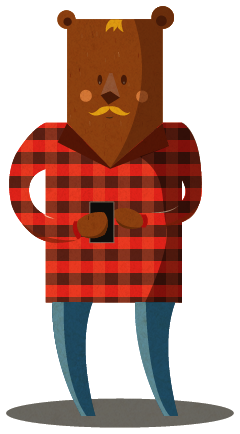
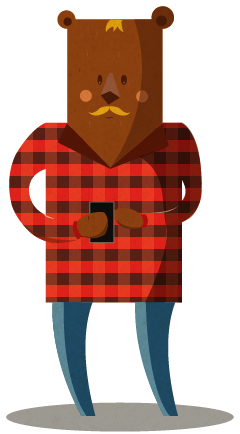
Last fixes

diff --git a/clients/nebber/index.html b/clients/nebber/index.html
@@ -1,1 +1,1 @@
-<!DOCTYPE html><html><head><title>Nebber</title><meta content="text/html; charset=utf-8" http-equiv="Content-Type" /><meta content="template language" name="keywords" /><meta content="width=device-width, initial-scale=1" name="viewport" /><link href="http://fonts.googleapis.com/css?family=Open+Sans|VT323|Boogaloo" rel="stylesheet" type="text/css" /><link href="stylesheets/screen.css" rel="stylesheet" /></head><body><div id="fb-root"></div><script src="javascripts/facebook.js"></script><div class="m-list--main-nav-container responsive" data-20500-start="bottom: 0; opacity: 1" data-21500-start="bottom: -100%; opacity: 0" data-500-start="bottom: 0; opacity: 1" data-start="bottom: -100%; opacity: 0"><ul class="m-list--main-nav responsive"><li><a data-start="background: rgba(227, 119, 46, 1)" href="#m-box--scene-1">1 </a></li><li><a data-2000-start="background: rgba(227, 119, 46, 1)" data-start="background: rgba(110, 100, 92, 1);" href="#m-box--scene-2">2 </a></li><li><a data-2000-start="background: rgba(110, 100, 92, 1);" data-4000-start="background: rgba(227, 119, 46, 1)" data-start="background: rgba(110, 100, 92, 1);" href="#m-box--scene-3">3 </a></li><li><a data-10000-start="background: rgba(227, 119, 46, 1)" data-4000-start="background: rgba(110, 100, 92, 1);" data-start="background: rgba(110, 100, 92, 1);" href="#m-box--scene-4">4 </a></li><li><a data-10000-start="background: rgba(110, 100, 92, 1);" data-11500-start="background: rgba(227, 119, 46, 1)" data-start="background: rgba(110, 100, 92, 1);" href="#m-box--scene-5">5 </a></li><li><a data-11500-start="background: rgba(110, 100, 92, 1);" data-13000-start="background: rgba(227, 119, 46, 1)" data-start="background: rgba(110, 100, 92, 1);" href="#m-box--scene-6">6 </a></li><li><a data-13000-start="background: rgba(110, 100, 92, 1);" data-15500-start="background: rgba(227, 119, 46, 1)" data-start="background: rgba(110, 100, 92, 1);" href="#m-box--scene-7">7 </a></li><li><a data-16500-start="background: rgba(110, 100, 92, 1);" data-17500-start="background: rgba(227, 119, 46, 1)" data-start="background: rgba(110, 100, 92, 1);" href="#m-box--scene-8">8 </a></li><li><a data-18500-start="background: rgba(110, 100, 92, 1);" data-19000-start="background: rgba(227, 119, 46, 1)" data-start="background: rgba(110, 100, 92, 1);" href="#m-box--scene-9">9 </a></li><li><a data-19500-start="background: rgba(110, 100, 92, 1);" data-20500-start="background: rgba(227, 119, 46, 1)" data-start="background: rgba(110, 100, 92, 1);" href="#m-box--scene-11">10 </a></li></ul><a class="connect-with-facebook m-link--scrollTo" href="#m-box--scene-11">Live Now ! </a></div><div class="m-box--elements responsive " data-150-start="opacity: 0" data-201-start="opacity: 0; top: -500px" data-start="top: 450px; opacity: 1" id="m-box--scroll"></div><div class="responsive" id="m-box--backgrounds"><div data-1000-start="background-position: center -1000px" data-3500-start="background-position: center -1000px; opacity: 1" data-4000-start="background-position: center -1000px; opacity: 0" data-start="background-position: center 0px" id="m-box--empty-bg1"></div><div data-11000-start="background-position: -3500px 0px; opacity: 0" data-12500-start="background-position: -3500px 0px; opacity: 1" data-14000-start="background-position: 0px 0px; opacity: 1" data-14500-start="background-position: 0px 0px; opacity: 0" data-3500-start="opacity: 0; background-position: 0px 0px" data-3900-start="opacity: 1;  background-position: 0px 0px" data-8000-start="background-position: -5100px 0px" data-8001-start="background-position: -5100px 0px; opacity: 0" data-start="opacity: 0" id="m-box--empty-bg2"></div><div data-14500-start="background-position: 50% 3000px" data-15500-start="background-position: 50% 0px" data-16500-start="background-position: 50% 0px" data-17500-start="background-position: 50% 3000px" data-start="background-position: 50% 3000px" id="m-box--empty-bg3"></div><div data-16000-start="background-position: 50% 3000px" data-17500-start="background-position: 50% 0px" data-18000-start="background-position: 50% 0px" data-19000-start="background-position: 50% 3000px" data-start="background-position: 50% 3000px" id="m-box--empty-bg4"></div><div data-18000-start="background-position: 50% 3000px" data-19000-start="background-position: 50% 20px" data-19500-start="background-position: 50% 20px" data-20500-start="background-position: 50% 3000px" data-start="background-position: 50% 3000px" id="m-box--empty-bg5"></div><div data-19000-start="background-position: 50% 3000px" data-20500-start="background-position: 50% 0px" data-start="background-position: 50% 3000px" id="m-box--empty-bg6"></div></div><h1 class="m-box--logo m-box--elements animated hinge bounceInDown responsive" data-500-start="top: -300px" data-start="top: -10px">Nebber </h1><div class="m-element--bear m-box--elements responsive" data-2000-start="right: 35%" data-3500-start="right: 35%; opacity: 1" data-4000-start="right: 35%; opacity: 0" data-4001-start="right: -100%; opacity: 0" data-start="right: -100%">Hi there ! I'm M.Bear </div><div class="m-box--elements m-box--close-view-phone responsive" data-2000-start="top: 200%" data-3500-start="top: -200%" data-start="top: 200%">Do you want to click ? </div><div class="m-box--elements m-element--small-plane responsive" data-2499-start="top: 430px; opacity: 0; right: 45%" data-2500-start="top: 430px; opacity: 1; right: 45%" data-2700-start="top: 430px; opacity: 1; right: 45%" data-3500-start="top: 430px; opacity: 1; right: -20%" data-start="top: -100px; opacity:0; right: 45%"></div><div class="m-box--elements m-element--plane-large responsive" data-3900-start="left: -20%; opacity: 0" data-4300-start="left: 40%; opacity: 1" data-7000-start="left: 40%; opacity: 1" data-7400-start="left: 40%; opacity: 0" data-start="left: -20%; opacity: 0"></div><div class="m-box--elements m-element--plane-large-msg responsive" data-11500-start="left: 100%; opacity: 0" data-13500-start="left: 50%; opacity: 1" data-14500-start=" left: -100%; opacity: 1" data-start="left: -100%; opacity: 0"></div><div class="m-box--elements m-element--sun responsive" data-10499-start="left: -35%; opacity: 0" data-12000-start="left: 40%; opacity: 0" data-12800-start="left: 50%; opacity: 1" data-14000-start="left: 100%; " data-3500-start="left: 15%; opacity: 0" data-4100-start="left: 15%; opacity: 1" data-8000-start="left: -35%; opacity: 1" data-start="left: 15%; opacity: 0"><div class="m-sun"></div><div class="m-sun--crown rotation"></div></div><div class="m-box--elements m-element--cloud1 responsive" data-11500-start="left: -10%; opacity: 0" data-13000-start="left: 30%; opacity: 1" data-14500-start=" left: 140%; opacity: 1" data-3499-start="top: 15%; opacity: 0; left: 50%" data-4100-start="top: 15%; opacity: 1; left: 50%" data-7000-start="left: 25%; opacity: 1" data-8000-start="left: -10%; opacity: 0" data-start="top: -100%; opacity: 0"></div><div class="m-box--elements m-element--cloud2 responsive" data-11500-start="left: -20%; opacity: 0" data-13400-start="left: 25%; opacity: 1" data-14500-start=" left: 200%; opacity: 1" data-3499-start="top: 35%; opacity: 0; left: 70%" data-4200-start="top: 35%; opacity: 1; left: 50%" data-7000-start="left: 1%; opacity: 1" data-7100-start="left: -20%; opacity: 0" data-start="top: -100%; opacity: 0"></div><div class="m-box--elements m-element--cloud3 responsive" data-11500-start="left: -50%; opacity: 0" data-12800-start="left: 5%; opacity: 1" data-14500-start=" left: 105%; opacity: 1" data-3499-start="top: 65%; opacity: 0; left: 20%" data-4150-start="top: 65%; opacity: 1; left: 20%" data-7000-start="left: 10%; opacity: 1" data-7500-start="left: -50%; opacity: 0" data-start="top: -100%; opacity: 0"></div><div class="m-box--elements m-element--cloud4 responsive" data-11500-start="left: -30%; opacity: 0" data-13100-start="left: 10%; opacity: 1" data-14500-start=" left: 160%; opacity: 1" data-3499-start="top: 50%; opacity: 0; left: 90%" data-4170-start="top: 50%; opacity: 1; left: 130%" data-7000-start="left: 15%; opacity: 1" data-7800-start="left: -30%; opacity: 0" data-start="top: -100%; opacity: 0"></div><div class="m-box--elements m-element--cloud5 responsive" data-11500-start="left: -30%; opacity: 0" data-13300-start="left: 40%; opacity: 1" data-14500-start=" left: 180%; opacity: 1" data-3499-start="bottom: 50%; opacity: 0; left: 90%" data-4170-start="bottom: 0; opacity: 1; left: 130%" data-7000-start="left: 15%; opacity: 1" data-7800-start="left: -30%; opacity: 0" data-start="bottom: -100%; opacity: 0"></div><div class="m-box--elements m-element--cloud6 responsive" data-3499-start="bottom: 10%; opacity: 0; left: 70%" data-4200-start="bottom: 10%; opacity: 1; left: 50%" data-7000-start="left: 1%; opacity: 1" data-7100-start="left: -20%; opacity: 0" data-start="bottom: -100%; opacity: 0"></div><div class="m-box--elements m-element--panelA responsive" data-10000-start="top: 0px; opacity: 1" data-11000-start="top: 0px; opacity: 0" data-7999-start="top: -800px; opacity: 0" data-8400-start="top: 0px; opacity: 1" data-start="top: -800px; opacity: 0"><div class="m-element--balloon"></div><div class="m-element--fox" data-10000-start="opacity: 1" data-11000-start="opacity: 0" data-8300-start="bottom: 0; left: -100%; opacity: 0" data-8600-start="bottom: 0; left: 23%; opacity: 1" data-start="bottom: 0; left: -100%; opacity: 0"></div><div class="m-bubble--fox" data-8400-start="opacity: 0" data-8700-start="opacity: 1" data-start="opacity: 0"><p>Let's have fun in the park !</p></div></div><div class="m-box--elements m-element--panelB responsive" data-10000-start="top: 0px; opacity: 1" data-11000-start="top: 0px; opacity: 0" data-8200-start="top: -800px; opacity: 0" data-8700-start="top: 0px; opacity: 1" data-start="top: -800px; opacity: 0"><div class="m-element--wave" data-10000-start="opacity: 1" data-11000-start="opacity: 0" data-8600-start="bottom: -200px; opacity: 0" data-8800-start="bottom: -10px; opacity: 1" data-start="bottom: -200px; opacity: 0"></div><div class="m-element--boat" data-10000-start="opacity: 1" data-11000-start="opacity: 0" data-8700-start="bottom: 120px; right: -100%; opacity: 0" data-8900-start="bottom: 120px; right: 50%; opacity: 1" data-start="bottom: 120px; right: -100%; opacity: 0"></div><div class="m-bubble--lion" data-8800-start="opacity: 0" data-9000-start="opacity: 1" data-start="opacity: 0"><p>It’s a beautiful day for a sea lion!</p></div><div class="m-element--sea-donkey" data-10000-start="opacity: 1" data-11000-start="opacity: 0" data-8600-start="bottom: -200px; opacity: 0" data-8800-start="bottom: -10px; opacity: 1" data-start="bottom: -200px; opacity: 0"></div></div><div class="m-box--elements m-element--panelC responsive" data-10000-start="top: 0px; opacity: 1" data-11000-start="top: 0px; opacity: 0" data-8400-start="top: -800px; opacity: 0" data-8900-start="top: 0px; opacity: 1" data-start="top: -800px; opacity: 0"><div class="m-element--moose" data-10000-start="opacity: 1" data-11000-start="opacity: 0" data-8700-start="bottom: 0; right: -100%; opacity: 0" data-9100-start="bottom: 0; right: 23%; opacity: 1" data-start="bottom: 0; right: -100%; opacity: 0"></div><div class="m-bubble--moose" data-8800-start="opacity: 0" data-9100-start="opacity: 1" data-start="opacity: 0"><p>Party tonight! <br />Put on your red shoes. . . </p></div></div><div class="m-box--elements m-element--panelA-blurred responsive" data-10000-start="top: 0px; opacity: 0" data-11000-start="top: 0px; opacity: 1" data-11900-start="top: 0px;" data-12900-start="top: -1100px;" data-start="top: -800px; opacity: 0"><div class="m-element--fox blurred" data-10000-start="bottom: 0px; left: 23%; opacity: 0" data-11000-start="bottom: 0px; opacity: 1" data-start="bottom: 0; left: -100%; opacity: 0"></div></div><div class="m-box--elements m-element--panelB-blurred responsive" data-10000-start="top: 0px; opacity: 0" data-11000-start="top: 0px; opacity: 1" data-11700-start="top: 0px;" data-12700-start="top: -800px;" data-start="top: -800px; opacity: 0"><div class="m-element--wave blurred" data-10000-start="opacity: 0" data-11000-start="opacity: 1" data-8800-start="bottom: -10px; opacity: 0" data-start="bottom: -200px; opacity: 0"></div><div class="m-element--boat blurred" data-10000-start="opacity: 0" data-11000-start="opacity: 1" data-8900-start="bottom: 120px; right: 50%; opacity: 0" data-start="bottom: 120px; right: -100%; opacity: 0"></div></div><div class="m-box--elements m-element--panelC-blurred responsive" data-10000-start="top: 0px; opacity: 0" data-11000-start="top: 0px; opacity: 1" data-11500-start="top: 0px;" data-12500-start="top: -900px;" data-start="top: -800px; opacity: 0"><div class="m-element--moose blurred" data-10000-start="opacity: 0" data-11000-start="opacity: 1" data-9100-start="bottom: 0; right: 23%; opacity: 0" data-start="bottom: 0; right: -100%; opacity: 0"></div></div><div class="m-box--elements m-element--bear-large responsive" data-10000-start="bottom: -100%" data-11000-start="bottom: 0%" data-11500-start="bottom: 0%" data-12500-start="bottom: -100%" data-start="bottom: -100%"></div><div class="m-box--elements m-box--elements-container responsive" data-14500-start="bottom: 0" data-start="bottom:-100%"><div class="m-box--elements m-element--bear-scene" data-14500-start="left: -100%" data-15100-start="left: 40%" data-20200-start="top: 350px; left: 40%" data-21000-start="top: 280px; left: 45%" data-start="left: -100%"></div><div class="m-box--elements m-element--fox-scene" data-14800-start="left: -50%; opacity: 0" data-15000-start="left: 0%; opacity: 0" data-15500-start="left: 25%; opacity: 1" data-16500-start="left: 25%; opacity: 1" data-17000-start="left: 0%; opacity: 0" data-17500-start="left: -100%; opacity: 0" data-20750-start="left: -100%; opacity: 0; top: 540px; z-index: 12" data-21500-start="left:35%; opacity: 1; top: 540px; z-index: 12" data-start="left: -50%"></div><div class="m-box--elements m-element--racoon-scene" data-14900-start="right: -100%; opacity: 0" data-15200-start="right: 0%; opacity: 0" data-15500-start="right: 10%; opacity: 1" data-16500-start="right: 10%; opacity: 1" data-17000-start="right: 0%; opacity: 0" data-17500-start="right: -100%" data-20750-start="right: -100%; opacity: 0; top: 540px; z-index: 12" data-21500-start="right:30%; opacity: 1; top: 540px; z-index: 12" data-start="right: -100%"></div><div class="m-box--elements m-element--flamingo-scene" data-15000-start="right: -100%" data-15250-start="right: 0%; opacity: 0" data-15500-start="right: 25%; opacity: 1" data-16500-start="right: 25%" data-17000-start="right: 0%; opacity: 0" data-17500-start="right: -100%" data-start="right: -100%"></div><div class="m-box--elements m-element--elephant-scene" data-16500-start="right: -100%" data-17000-start="right: 0%; opacity: 0" data-17500-start="right: 10%; opacity: 1" data-18000-start="right: 10%" data-18500-start="right: 0%; opacity: 0" data-19000-start="right: -100%" data-20750-start="right: -100%; opacity: 0; top: 280px" data-21500-start="right:10%; opacity: 1; top: 280px" data-start="right: -100%"></div><div class="m-box--elements m-element--panda-scene" data-16500-start="left: -100%" data-17000-start="left: 0%; opacity: 0" data-17500-start="left: 15%; opacity: 1" data-18000-start="left: 15%" data-18500-start="left: 0%; opacity: 0" data-19000-start="left: -100%" data-20750-start="left: -100%; opacity: 0; top: 300px" data-21500-start="left:5%; opacity: 1; top: 300px" data-start="left: -100%"></div><div class="m-box--elements m-element--moose-scene" data-18000-start="left: -100%" data-18500-start="left: 0%; opacity: 0" data-19000-start="left: 14%; z-index: 12; opacity:1" data-20500-start="left: 10%; z-index: 12" data-start="left: -100%"></div><div class="m-box--elements m-element--lion-scene" data-18000-start="right: -100%" data-18500-start="right: 0%; opacity: 0" data-19000-start="right: 20%; z-index: 12; opacity: 1" data-20500-start="right: 10%; z-index: 12" data-start="right: -100%"></div><div class="m-box--elements m-element--table-scene" data-20000-start="top: -500px" data-20500-start="top: 370px" data-start="top: -500px"></div><div class="m-box--elements m-element--donkey-scene" data-20000-start="left: -100%" data-20750-start="left: 0%; opacity: 0" data-21500-start="left:28%; opacity: 1" data-start="bottom: -100%"></div></div><div class="m-box--elements txt-box--scene1 responsive" data-1200-start="opacity: 1" data-2800-start="opacity: 1" data-3500-start="opacity: 0" data-800-start="top: 15%; opacity: 0" data-start="top: -100%; opacity: 0"><p>Feeling like doing something now. <br />Maybe like seeing someone. <br />Like something somewhere <br />with someone somehow. </p></div><div class="m-box--elements txt-box--scene1 responsive" data-1200-start="opacity: 0" data-2500-start="opacity: 0;" data-2800-start="opacity: 1" data-3500-start="opacity: 0" data-800-start="top: 63%; right: -2%; opacity: 0" data-start="top: -100%; opacity: 0"><p>What resonates with you ? </p></div><div class="m-box--elements txt-box--scene4 responsive" data-3799-start="top: -100%; opacity: 0" data-3800-start="top: 15%; opacity: 0" data-4100-start="top: 15%; opacity: 1" data-6200-start="top: 15%; opacity: 1" data-7000-start="top: 15%; opacity: 0" data-7001-start="top: -100%; opacity: 0" data-start="top: -100%; opacity: 0"><p>One click to life. <br />Connecting your friends <br />with what you feel like doing. <br />Cool events, restaurants, whatever. <br />Bringing it all together. </p></div><div class="m-box--elements txt-box--scene4 responsive" data-3799-start="top: -100%; opacity: 0" data-5000-start="top: 88%; opacity: 0" data-6200-start="top: 88%; opacity: 1" data-7000-start="top: 88%; opacity: 0" data-7001-start="top: -100%; opacity: 0" data-start="top: -100%; right: 2%; opacity: 0" style="color: #ff9124"><p>Being invited is always nice too... </p></div><div class="m-box--elements txt-box--scene2 responsive" data-10899-start="top: -100%; opacity: 0" data-10900-start="top: 25%; opacity: 0" data-11000-start="opacity: 1" data-11500-start="opacity: 1" data-12001-start="opacity: 0; top: -100%" data-12500-start="opacity: 0" data-start="top: -100%; opacity: 0"><p>Let’s do it! See you soon! </p></div><div class="m-box--elements txt-box--scene3 responsive" data-15000-start="top: -100%; opacity: 0" data-15500-start="top: 10%; opacity: 1" data-16500-start="top: 10%; opacity: 1" data-17500-start="top: -100%; opacity: 0" data-start="top: -100%; opacity: 0"><p>Meeting each other’s friends is fun. . . </p></div><div class="m-box--elements txt-box--scene3 responsive" data-16000-start="top: -100%; opacity: 0" data-17500-start="top: 10%; opacity: 1" data-18000-start="top: 10%; opacity: 1" data-19000-start="top: -100%; opacity: 0" data-start="top: -100%; opacity: 0"><p>Everyday is fresh and full of funny opportunities together. </p></div><div class="m-box--elements txt-box--scene3 responsive " data-17500-start="top: -100%; opacity: 0" data-18500-start="top: 10%; opacity: 1" data-19500-start="top: 10%; opacity: 1" data-20500-start="top: -100%; opacity: 0" data-start="top: -100%; opacity: 0"><p>And nightlife is far more night lively. </p></div><div class="m-box--elements txt-box--scene3 responsive" data-21000-start="top: -100%; opacity: 0; color: #444" data-21500-start="top: 10%; opacity: 1; color: #444" data-start="top: -100%; opacity: 0; color: #444"><p>Have friends? <br />Nebber something good. </p></div><a class="m-box--elements connect-with-facebook responsive" data-20900-start="top: 25%; opacity: 0" data-21500-start="top: 25%; opacity: 1" data-start="top: -100%; opacity: 0" href="#">Live Now ! </a><div class="m-box--share m-box--elements" data-20900-start="top: 35%; opacity: 0" data-21500-start="top: 35%; opacity: 1" data-start="top: -100%; opacity: 0"><a class="twitter-share-button" data-url="http://www.nebber.com" href="https://twitter.com/share"></a><script type="text/javascript">!function(d,s,id){var js,fjs=d.getElementsByTagName(s)[0],p=/^http:/.test(d.location)?'http':'https';if(!d.getElementById(id)){js=d.createElement(s);js.id=id;js.src=p+'://platform.twitter.com/widgets.js';fjs.parentNode.insertBefore(js,fjs);}}(document, 'script', 'twitter-wjs');</script><a class="like" href="http://www.facebook.com/sharer/sharer.php?s=100&amp;p[url]=http://www.nebber.com&amp;p[title]=You%20too,%20live%20now%20!" target="_blank">Share </a></div><div class="responsive" id="m-box--scene-1"></div><div class="responsive" id="m-box--scene-2"></div><div class="responsive" id="m-box--scene-3"></div><div class="responsive" id="m-box--scene-4"></div><div class="responsive" id="m-box--scene-5"></div><div class="responsive" id="m-box--scene-6"></div><div class="responsive" id="m-box--scene-7"></div><div class="responsive" id="m-box--scene-8"></div><div class="responsive" id="m-box--scene-9"></div><div class="responsive" id="m-box--scene-10"></div><div class="responsive" id="m-box--scene-11"></div><div class="isResponsive"><img src="images/donkey-mobile.gif" /><p>Hi there !</p><p>To enjoy the Nebber website experience at its best, please switch on your desktop.</p><p>However, you can still connect directly: <a class="connect-with-facebook" href="/">Connect with Facebook </a></p></div></body><script src="http://ajax.googleapis.com/ajax/libs/jquery/1.10.2/jquery.min.js" type="text/javascript"></script><script src="javascripts/skrollr.js"></script><script src="javascripts/smoothscroll.js"></script><script src="javascripts/queryloader2.js"></script><script src="javascripts/call.js"></script></html>
+<!DOCTYPE html><html><head><title>Nebber</title><meta content="text/html; charset=utf-8" http-equiv="Content-Type" /><meta content="template language" name="keywords" /><meta content="width=device-width, initial-scale=1" name="viewport" /><link href="http://fonts.googleapis.com/css?family=Open+Sans|VT323|Boogaloo" rel="stylesheet" type="text/css" /><link href="stylesheets/screen.css" rel="stylesheet" /></head><body><div id="fb-root"></div><script src="javascripts/facebook.js"></script><div class="m-list--main-nav-container responsive" data-20500-start="bottom: 0; opacity: 1" data-21500-start="bottom: -100%; opacity: 0" data-500-start="bottom: 0; opacity: 1" data-start="bottom: -100%; opacity: 0"><ul class="m-list--main-nav responsive"><li><a data-start="background: rgba(227, 119, 46, 1)" href="#m-box--scene-1">1 </a></li><li><a data-2000-start="background: rgba(227, 119, 46, 1)" data-start="background: rgba(110, 100, 92, 1);" href="#m-box--scene-2">2 </a></li><li><a data-2000-start="background: rgba(110, 100, 92, 1);" data-4000-start="background: rgba(227, 119, 46, 1)" data-start="background: rgba(110, 100, 92, 1);" href="#m-box--scene-3">3 </a></li><li><a data-10000-start="background: rgba(227, 119, 46, 1)" data-4000-start="background: rgba(110, 100, 92, 1);" data-start="background: rgba(110, 100, 92, 1);" href="#m-box--scene-4">4 </a></li><li><a data-10000-start="background: rgba(110, 100, 92, 1);" data-11500-start="background: rgba(227, 119, 46, 1)" data-start="background: rgba(110, 100, 92, 1);" href="#m-box--scene-5">5 </a></li><li><a data-11500-start="background: rgba(110, 100, 92, 1);" data-13000-start="background: rgba(227, 119, 46, 1)" data-start="background: rgba(110, 100, 92, 1);" href="#m-box--scene-6">6 </a></li><li><a data-13000-start="background: rgba(110, 100, 92, 1);" data-15500-start="background: rgba(227, 119, 46, 1)" data-start="background: rgba(110, 100, 92, 1);" href="#m-box--scene-7">7 </a></li><li><a data-16500-start="background: rgba(110, 100, 92, 1);" data-17500-start="background: rgba(227, 119, 46, 1)" data-start="background: rgba(110, 100, 92, 1);" href="#m-box--scene-8">8 </a></li><li><a data-18500-start="background: rgba(110, 100, 92, 1);" data-19000-start="background: rgba(227, 119, 46, 1)" data-start="background: rgba(110, 100, 92, 1);" href="#m-box--scene-9">9 </a></li><li><a data-19500-start="background: rgba(110, 100, 92, 1);" data-20500-start="background: rgba(227, 119, 46, 1)" data-start="background: rgba(110, 100, 92, 1);" href="#m-box--scene-11">10 </a></li></ul><a class="connect-with-facebook m-link--scrollTo" href="#m-box--scene-11">Live Now ! </a></div><div class="m-box--elements responsive " data-150-start="opacity: 0" data-201-start="opacity: 0; top: -500px" data-start="top: 450px; opacity: 1" id="m-box--scroll"></div><div class="responsive" id="m-box--backgrounds"><div data-1000-start="background-position: center -1000px" data-3500-start="background-position: center -1000px; opacity: 1" data-4000-start="background-position: center -1000px; opacity: 0" data-start="background-position: center 0px" id="m-box--empty-bg1"></div><div data-11000-start="background-position: -3500px 0px; opacity: 0" data-12500-start="background-position: -3500px 0px; opacity: 1" data-14000-start="background-position: 0px 0px; opacity: 1" data-14500-start="background-position: 0px 0px; opacity: 0" data-3500-start="opacity: 0; background-position: 0px 0px" data-3900-start="opacity: 1;  background-position: 0px 0px" data-8000-start="background-position: -5100px 0px" data-8001-start="background-position: -5100px 0px; opacity: 0" data-start="opacity: 0" id="m-box--empty-bg2"></div><div data-14500-start="background-position: 50% 3000px" data-15500-start="background-position: 50% 0px" data-16500-start="background-position: 50% 0px" data-17500-start="background-position: 50% 3000px" data-start="background-position: 50% 3000px" id="m-box--empty-bg3"></div><div data-16000-start="background-position: 50% 3000px" data-17500-start="background-position: 50% 0px" data-18000-start="background-position: 50% 0px" data-19000-start="background-position: 50% 3000px" data-start="background-position: 50% 3000px" id="m-box--empty-bg4"></div><div data-18000-start="background-position: 50% 3000px" data-19000-start="background-position: 50% 20px" data-19500-start="background-position: 50% 20px" data-20500-start="background-position: 50% 3000px" data-start="background-position: 50% 3000px" id="m-box--empty-bg5"></div><div data-19000-start="background-position: 50% 3000px" data-20500-start="background-position: 50% 0px" data-start="background-position: 50% 3000px" id="m-box--empty-bg6"></div></div><h1 class="m-box--logo m-box--elements animated hinge bounceInDown responsive" data-500-start="top: -300px" data-start="top: -10px">Nebber </h1><div class="m-element--bear m-box--elements responsive" data-2000-start="right: 35%" data-3500-start="right: 35%; opacity: 1" data-4000-start="right: 35%; opacity: 0" data-4001-start="right: -100%; opacity: 0" data-start="right: -100%">Hi there ! I'm M.Bear </div><div class="m-box--elements m-box--close-view-phone responsive" data-2000-start="top: 200%" data-3500-start="top: -200%" data-start="top: 200%">Do you want to click ? </div><div class="m-box--elements m-element--small-plane responsive" data-2499-start="top: 430px; opacity: 0; right: 45%" data-2500-start="top: 430px; opacity: 1; right: 45%" data-2700-start="top: 430px; opacity: 1; right: 45%" data-3500-start="top: 430px; opacity: 1; right: -20%" data-start="top: -100px; opacity:0; right: 45%"></div><div class="m-box--elements m-element--plane-large responsive" data-3900-start="left: -20%; opacity: 0" data-4300-start="left: 40%; opacity: 1" data-7000-start="left: 40%; opacity: 1" data-7400-start="left: 40%; opacity: 0" data-start="left: -20%; opacity: 0"></div><div class="m-box--elements m-element--plane-large-msg responsive" data-11500-start="left: 100%; opacity: 0" data-13500-start="left: 50%; opacity: 1" data-14500-start=" left: -100%; opacity: 1" data-start="left: -100%; opacity: 0"></div><div class="m-box--elements m-element--sun responsive" data-10499-start="left: -35%; opacity: 0" data-12000-start="left: 40%; opacity: 0" data-12800-start="left: 50%; opacity: 1" data-14000-start="left: 100%; " data-3500-start="left: 15%; opacity: 0" data-4100-start="left: 15%; opacity: 1" data-8000-start="left: -35%; opacity: 1" data-start="left: 15%; opacity: 0"><div class="m-sun"></div><div class="m-sun--crown rotation"></div></div><div class="m-box--elements m-element--cloud1 responsive" data-11500-start="left: -10%; opacity: 0" data-13000-start="left: 30%; opacity: 1" data-14500-start=" left: 140%; opacity: 1" data-3499-start="top: 15%; opacity: 0; left: 50%" data-4100-start="top: 15%; opacity: 1; left: 50%" data-7000-start="left: 25%; opacity: 1" data-8000-start="left: -10%; opacity: 0" data-start="top: -100%; opacity: 0"></div><div class="m-box--elements m-element--cloud2 responsive" data-11500-start="left: -20%; opacity: 0" data-13400-start="left: 25%; opacity: 1" data-14500-start=" left: 200%; opacity: 1" data-3499-start="top: 35%; opacity: 0; left: 70%" data-4200-start="top: 35%; opacity: 1; left: 50%" data-7000-start="left: 1%; opacity: 1" data-7100-start="left: -20%; opacity: 0" data-start="top: -100%; opacity: 0"></div><div class="m-box--elements m-element--cloud3 responsive" data-11500-start="left: -50%; opacity: 0" data-12800-start="left: 5%; opacity: 1" data-14500-start=" left: 105%; opacity: 1" data-3499-start="top: 65%; opacity: 0; left: 20%" data-4150-start="top: 65%; opacity: 1; left: 20%" data-7000-start="left: 10%; opacity: 1" data-7500-start="left: -50%; opacity: 0" data-start="top: -100%; opacity: 0"></div><div class="m-box--elements m-element--cloud4 responsive" data-11500-start="left: -30%; opacity: 0" data-13100-start="left: 10%; opacity: 1" data-14500-start=" left: 160%; opacity: 1" data-3499-start="top: 50%; opacity: 0; left: 90%" data-4170-start="top: 50%; opacity: 1; left: 130%" data-7000-start="left: 15%; opacity: 1" data-7800-start="left: -30%; opacity: 0" data-start="top: -100%; opacity: 0"></div><div class="m-box--elements m-element--cloud5 responsive" data-11500-start="left: -30%; opacity: 0" data-13300-start="left: 40%; opacity: 1" data-14500-start=" left: 180%; opacity: 1" data-3499-start="bottom: 50%; opacity: 0; left: 90%" data-4170-start="bottom: 0; opacity: 1; left: 130%" data-7000-start="left: 15%; opacity: 1" data-7800-start="left: -30%; opacity: 0" data-start="bottom: -100%; opacity: 0"></div><div class="m-box--elements m-element--cloud6 responsive" data-3499-start="bottom: 10%; opacity: 0; left: 70%" data-4200-start="bottom: 10%; opacity: 1; left: 50%" data-7000-start="left: 1%; opacity: 1" data-7100-start="left: -20%; opacity: 0" data-start="bottom: -100%; opacity: 0"></div><div class="m-box--elements m-element--panelA responsive" data-10000-start="top: 0px; opacity: 1" data-11000-start="top: 0px; opacity: 0" data-7999-start="top: -800px; opacity: 0" data-8400-start="top: 0px; opacity: 1" data-start="top: -800px; opacity: 0"><div class="m-element--balloon"></div><div class="m-element--fox" data-10000-start="opacity: 1" data-11000-start="opacity: 0" data-8300-start="bottom: 0; left: -100%; opacity: 0" data-8600-start="bottom: 0; left: 23%; opacity: 1" data-start="bottom: 0; left: -100%; opacity: 0"></div><div class="m-bubble--fox" data-8400-start="opacity: 0" data-8700-start="opacity: 1" data-start="opacity: 0"><p>Let's have fun in the park !</p></div></div><div class="m-box--elements m-element--panelB responsive" data-10000-start="top: 0px; opacity: 1" data-11000-start="top: 0px; opacity: 0" data-8200-start="top: -800px; opacity: 0" data-8700-start="top: 0px; opacity: 1" data-start="top: -800px; opacity: 0"><div class="m-element--wave" data-10000-start="opacity: 1" data-11000-start="opacity: 0" data-8600-start="bottom: -200px; opacity: 0" data-8800-start="bottom: -10px; opacity: 1" data-start="bottom: -200px; opacity: 0"></div><div class="m-element--boat" data-10000-start="opacity: 1" data-11000-start="opacity: 0" data-8700-start="bottom: 120px; right: -100%; opacity: 0" data-8900-start="bottom: 120px; right: 50%; opacity: 1" data-start="bottom: 120px; right: -100%; opacity: 0"></div><div class="m-bubble--lion" data-8800-start="opacity: 0" data-9000-start="opacity: 1" data-start="opacity: 0"><p>It’s a beautiful day for a sea lion!</p></div><div class="m-element--sea-donkey" data-10000-start="opacity: 1" data-11000-start="opacity: 0" data-8600-start="bottom: -200px; opacity: 0" data-8800-start="bottom: -10px; opacity: 1" data-start="bottom: -200px; opacity: 0"></div></div><div class="m-box--elements m-element--panelC responsive" data-10000-start="top: 0px; opacity: 1" data-11000-start="top: 0px; opacity: 0" data-8400-start="top: -800px; opacity: 0" data-8900-start="top: 0px; opacity: 1" data-start="top: -800px; opacity: 0"><div class="m-element--moose" data-10000-start="opacity: 1" data-11000-start="opacity: 0" data-8700-start="bottom: 0; right: -100%; opacity: 0" data-9100-start="bottom: 0; right: 23%; opacity: 1" data-start="bottom: 0; right: -100%; opacity: 0"></div><div class="m-bubble--moose" data-8800-start="opacity: 0" data-9100-start="opacity: 1" data-start="opacity: 0"><p>Party tonight! <br />Put on your red shoes. . . </p></div></div><div class="m-box--elements m-element--panelA-blurred responsive" data-10000-start="top: 0px; opacity: 0" data-11000-start="top: 0px; opacity: 1" data-11900-start="top: 0px;" data-12900-start="top: -1100px;" data-start="top: -800px; opacity: 0"><div class="m-element--fox blurred" data-10000-start="bottom: 0px; left: 23%; opacity: 0" data-11000-start="bottom: 0px; opacity: 1" data-start="bottom: 0; left: -100%; opacity: 0"></div></div><div class="m-box--elements m-element--panelB-blurred responsive" data-10000-start="top: 0px; opacity: 0" data-11000-start="top: 0px; opacity: 1" data-11700-start="top: 0px;" data-12700-start="top: -800px;" data-start="top: -800px; opacity: 0"><div class="m-element--wave blurred" data-10000-start="opacity: 0" data-11000-start="opacity: 1" data-8800-start="bottom: -10px; opacity: 0" data-start="bottom: -200px; opacity: 0"></div><div class="m-element--boat blurred" data-10000-start="opacity: 0" data-11000-start="opacity: 1" data-8900-start="bottom: 120px; right: 50%; opacity: 0" data-start="bottom: 120px; right: -100%; opacity: 0"></div></div><div class="m-box--elements m-element--panelC-blurred responsive" data-10000-start="top: 0px; opacity: 0" data-11000-start="top: 0px; opacity: 1" data-11500-start="top: 0px;" data-12500-start="top: -900px;" data-start="top: -800px; opacity: 0"><div class="m-element--moose blurred" data-10000-start="opacity: 0" data-11000-start="opacity: 1" data-9100-start="bottom: 0; right: 23%; opacity: 0" data-start="bottom: 0; right: -100%; opacity: 0"></div></div><div class="m-box--elements m-element--bear-large responsive" data-10000-start="bottom: -100%" data-11000-start="bottom: 0%" data-11500-start="bottom: 0%" data-12500-start="bottom: -100%" data-start="bottom: -100%"></div><div class="m-box--elements m-box--elements-container responsive" data-14500-start="bottom: 0" data-start="bottom:-100%"><div class="m-box--elements m-element--bear-scene" data-14500-start="left: -100%" data-15100-start="left: 40%" data-20200-start="top: 350px; left: 40%" data-21000-start="top: 280px; left: 45%" data-start="left: -100%"></div><div class="m-box--elements m-element--fox-scene" data-14800-start="left: -50%; opacity: 0; top: 525px" data-15000-start="left: 0%; opacity: 0; top: 525px" data-15500-start="left: 25%; opacity: 1; top: 525px" data-16500-start="left: 25%; opacity: 1; top: 525px" data-17000-start="left: 0%; opacity: 0" data-17500-start="left: -100%; opacity: 0" data-20750-start="left: -100%; opacity: 0; top: 540px; z-index: 12" data-21500-start="left:35%; opacity: 1; top: 540px; z-index: 12" data-start="left: -50%; top: 525px"></div><div class="m-box--elements m-element--racoon-scene" data-14900-start="right: -100%; opacity: 0" data-15200-start="right: 0%; opacity: 0" data-15500-start="right: 10%; opacity: 1" data-16500-start="right: 10%; opacity: 1" data-17000-start="right: 0%; opacity: 0" data-17500-start="right: -100%" data-20750-start="right: -100%; opacity: 0; top: 540px; z-index: 12" data-21500-start="right:30%; opacity: 1; top: 540px; z-index: 12" data-start="right: -100%"></div><div class="m-box--elements m-element--flamingo-scene" data-15000-start="right: -100%" data-15250-start="right: 0%; opacity: 0" data-15500-start="right: 25%; opacity: 1" data-16500-start="right: 25%" data-17000-start="right: 0%; opacity: 0" data-17500-start="right: -100%" data-start="right: -100%"></div><div class="m-box--elements m-element--elephant-scene" data-16500-start="right: -100%; top: 350px" data-17000-start="right: 0%; opacity: 0; top: 350px" data-17500-start="right: 10%; opacity: 1" data-18000-start="right: 10%; top: 350px" data-18500-start="right: 0%; opacity: 0; top: 350px" data-19000-start="right: -100%" data-20750-start="right: -100%; opacity: 0; top: 280px" data-21500-start="right:10%; opacity: 1; top: 280px" data-start="right: -100%; top: 350px"></div><div class="m-box--elements m-element--panda-scene" data-16500-start="left: -100%; top: 350px" data-17000-start="left: 0%; opacity: 0; top: 350px" data-17500-start="left: 15%; opacity: 1; top: 350px" data-18000-start="left: 15%; top: 350px" data-18500-start="left: 0%; opacity: 0; top: 350px" data-19000-start="left: -100%" data-20750-start="left: -100%; opacity: 0; top: 300px" data-21500-start="left:5%; opacity: 1; top: 300px" data-start="left: -100%"></div><div class="m-box--elements m-element--moose-scene" data-18000-start="left: -100%" data-18500-start="left: 0%; opacity: 0" data-19000-start="left: 14%; z-index: 12; opacity:1" data-20500-start="left: 10%; z-index: 12" data-start="left: -100%"></div><div class="m-box--elements m-element--lion-scene" data-18000-start="right: -100%" data-18500-start="right: 0%; opacity: 0" data-19000-start="right: 20%; z-index: 12; opacity: 1" data-20500-start="right: 10%; z-index: 12" data-start="right: -100%"></div><div class="m-box--elements m-element--table-scene" data-20000-start="top: -500px" data-20500-start="top: 370px" data-start="top: -500px"></div><div class="m-box--elements m-element--donkey-scene" data-20000-start="left: -100%" data-20750-start="left: 0%; opacity: 0" data-21500-start="left:28%; opacity: 1" data-start="bottom: -100%"></div></div><div class="m-box--elements txt-box--scene1 responsive" data-1200-start="opacity: 1" data-2800-start="opacity: 1" data-3500-start="opacity: 0" data-800-start="top: 15%; opacity: 0" data-start="top: -100%; opacity: 0"><p>Feeling like doing something now. <br />Maybe like seeing someone. <br />Like something somewhere <br />with someone somehow. </p></div><div class="m-box--elements txt-box--scene1 responsive" data-1200-start="opacity: 0" data-2500-start="opacity: 0;" data-2800-start="opacity: 1" data-3500-start="opacity: 0" data-800-start="top: 63%; right: -2%; opacity: 0" data-start="top: -100%; opacity: 0"><p>What resonates with you ? </p></div><div class="m-box--elements txt-box--scene4 responsive" data-3799-start="top: -100%; opacity: 0" data-3800-start="top: 15%; opacity: 0" data-4100-start="top: 15%; opacity: 1" data-6200-start="top: 15%; opacity: 1" data-7000-start="top: 15%; opacity: 0" data-7001-start="top: -100%; opacity: 0" data-start="top: -100%; opacity: 0"><p>One click to life. <br />Connecting your friends <br />with what you feel like doing. <br />Cool events, restaurants, whatever. <br />Bringing it all together. </p></div><div class="m-box--elements txt-box--scene4 responsive" data-3799-start="top: -100%; opacity: 0" data-5000-start="top: 88%; opacity: 0" data-6200-start="top: 88%; opacity: 1" data-7000-start="top: 88%; opacity: 0" data-7001-start="top: -100%; opacity: 0" data-start="top: -100%; right: 2%; opacity: 0" style="color: #ff9124"><p>Being invited is always nice too... </p></div><div class="m-box--elements txt-box--scene2 responsive" data-10899-start="top: -100%; opacity: 0" data-10900-start="top: 25%; opacity: 0" data-11000-start="opacity: 1" data-11500-start="opacity: 1" data-12001-start="opacity: 0; top: -100%" data-12500-start="opacity: 0" data-start="top: -100%; opacity: 0"><p>Let’s do it! See you soon! </p></div><div class="m-box--elements txt-box--scene3 responsive" data-15000-start="top: -100%; opacity: 0" data-15500-start="top: 10%; opacity: 1" data-16500-start="top: 10%; opacity: 1" data-17500-start="top: -100%; opacity: 0" data-start="top: -100%; opacity: 0"><p>Meeting each other’s friends is fun. . . </p></div><div class="m-box--elements txt-box--scene3 responsive" data-16000-start="top: -100%; opacity: 0" data-17500-start="top: 10%; opacity: 1" data-18000-start="top: 10%; opacity: 1" data-19000-start="top: -100%; opacity: 0" data-start="top: -100%; opacity: 0"><p>Everyday is fresh and full of funny opportunities together. </p></div><div class="m-box--elements txt-box--scene3 responsive " data-17500-start="top: -100%; opacity: 0" data-18500-start="top: 10%; opacity: 1" data-19500-start="top: 10%; opacity: 1" data-20500-start="top: -100%; opacity: 0" data-start="top: -100%; opacity: 0"><p>And nightlife is far more night lively. </p></div><div class="m-box--elements txt-box--scene3 responsive" data-21000-start="top: -100%; opacity: 0; color: #444" data-21500-start="top: 10%; opacity: 1; color: #444" data-start="top: -100%; opacity: 0; color: #444"><p>Have friends? <br />Nebber something good. </p></div><a class="m-box--elements connect-with-facebook responsive" data-20900-start="top: 25%; opacity: 0" data-21500-start="top: 25%; opacity: 1" data-start="top: -100%; opacity: 0" href="#">Live Now ! </a><div class="m-box--share m-box--elements" data-20900-start="top: 35%; opacity: 0" data-21500-start="top: 35%; opacity: 1" data-start="top: -100%; opacity: 0"><a class="twitter-share-button" data-url="http://www.nebber.com" href="https://twitter.com/share"></a><script type="text/javascript">!function(d,s,id){var js,fjs=d.getElementsByTagName(s)[0],p=/^http:/.test(d.location)?'http':'https';if(!d.getElementById(id)){js=d.createElement(s);js.id=id;js.src=p+'://platform.twitter.com/widgets.js';fjs.parentNode.insertBefore(js,fjs);}}(document, 'script', 'twitter-wjs');</script><a class="like" href="http://www.facebook.com/sharer/sharer.php?s=100&amp;p[url]=http://www.nebber.com&amp;p[title]=You%20too,%20live%20now%20!" target="_blank">Share </a></div><div class="responsive" id="m-box--scene-1"></div><div class="responsive" id="m-box--scene-2"></div><div class="responsive" id="m-box--scene-3"></div><div class="responsive" id="m-box--scene-4"></div><div class="responsive" id="m-box--scene-5"></div><div class="responsive" id="m-box--scene-6"></div><div class="responsive" id="m-box--scene-7"></div><div class="responsive" id="m-box--scene-8"></div><div class="responsive" id="m-box--scene-9"></div><div class="responsive" id="m-box--scene-10"></div><div class="responsive" id="m-box--scene-11"></div><div class="isResponsive"><img src="images/donkey-mobile.gif" /><p>Hi there !</p><p>To enjoy the Nebber website experience at its best, please switch on your desktop.</p><p>However, you can still connect directly: <a class="connect-with-facebook" href="/">Connect with Facebook </a></p></div></body><script src="http://ajax.googleapis.com/ajax/libs/jquery/1.10.2/jquery.min.js" type="text/javascript"></script><script src="javascripts/skrollr.js"></script><script src="javascripts/smoothscroll.js"></script><script src="javascripts/queryloader2.js"></script><script src="javascripts/call.js"></script></html>

diff --git a/clients/nebber/stylesheets/screen.css b/clients/nebber/stylesheets/screen.css
@@ -570,7 +570,7 @@ h1 {
   background-position: 50% 50%;
   width: 157px;
   height: 247px;
-  top: 530px;
+  top: 520px;
   position: absolute !important; }
 
 /* line 217, ../sass/elements.sass */
